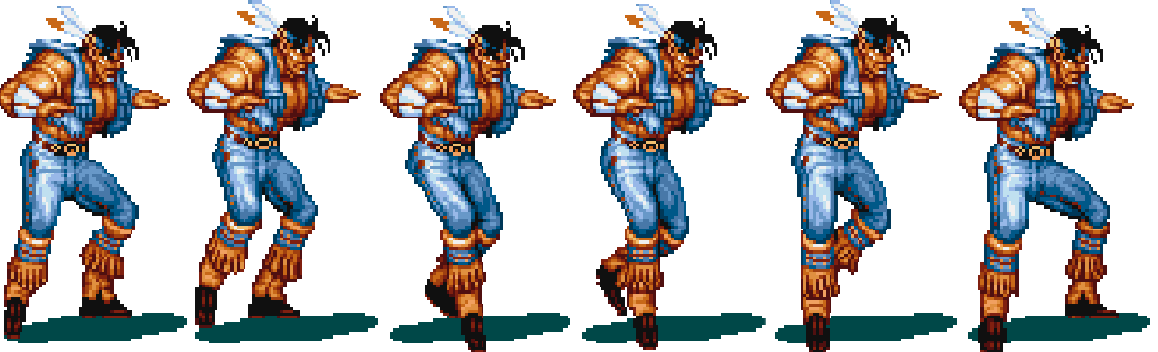
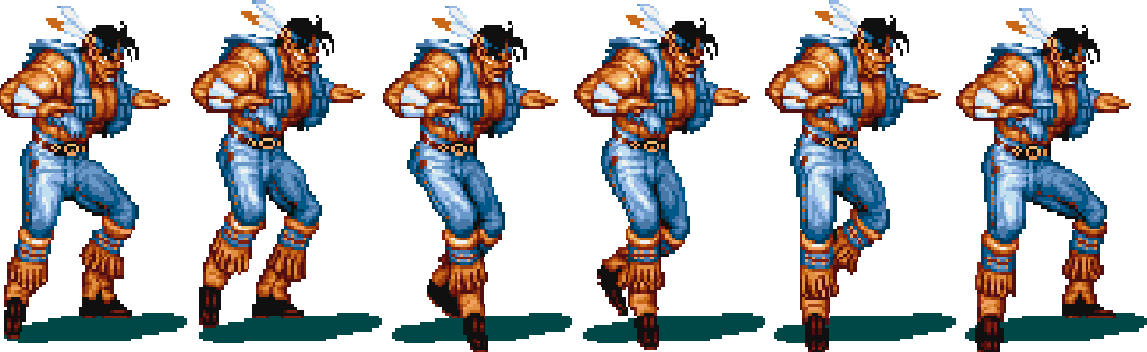
16 sprites better than 4 and cubes

diff --git a/JeuDeCombats/src/personnages/InformationsCharacter.java b/JeuDeCombats/src/personnages/InformationsCharacter.java
@@ -3,62 +3,62 @@ package personnages;
 public abstract class InformationsCharacter {
 
 	private static int life[]={60,80,80,60,60,40,100,40,100,100,60,40,60,40,80,60};
-	private static int speed[]={8,4,8,6,8,8,2,2,4,4,8,10,6,10,6,8};
+	private static int speed[]={8,4,8,6,8,8,4,4,4,4,8,10,6,10,6,8};
 	private static int damage[]={8,10,6,8,6,4,10,6,8,8,8,6,8,6,10,10};
 	
-	private static int widthSpritePersoIdle[]={182,299,234,205,0,207};
-	private static int heightSpritePersoIdle[]={345,366,321,349,0,350};
-	private static int nbSpritePersoIdle[]={4,4,4,3,0,4};
+	private static int widthSpritePersoIdle[]={182,299,234,205,188,206,245,218,194,211,195,198,169,205,176,273};
+	private static int heightSpritePersoIdle[]={345,366,321,349,360,353,357,345,350,338,363,355,348,343,357,365};
+	private static int nbSpritePersoIdle[]={4,4,4,3,4,4,3,4,4,3,4,5,4,3,4,3};
 	
-	private static int widthSpritePersoWalking[]={182,326,233,200,0,230};
-	private static int heightSpritePersoWalking[]={345,353,262,358,0,360};
-	private static int nbSpritePersoWalking[]={5,4,8,5,0,8};
+	private static int widthSpritePersoWalking[]={182,326,233,200,209,229,246,209,191,171,228,192,170,204,175,273};
+	private static int heightSpritePersoWalking[]={345,353,262,358,360,358,362,356,352,373,366,370,348,353,367,389};
+	private static int nbSpritePersoWalking[]={5,4,8,5,5,8,4,8,6,5,5,6,4,4,6,4};
 	
-	private static int widthSpritePersoJump[]={182,277,216,187,0,205};
-	private static int heightSpritePersoJump[]={380,357,383,400,0,428};
-	private static int nbSpritePersoJump[]={4,4,4,6,0,4};
+	private static int widthSpritePersoJump[]={182,277,216,187,144,156,269,138,191,154,159,146,160,159,131,264};
+	private static int heightSpritePersoJump[]={380,357,383,400,394,425,400,407,371,385,429,442,338,361,388,357};
+	private static int nbSpritePersoJump[]={4,4,4,6,5,3,3,3,4,5,5,5,5,4,4,4};
 	
-	private static int widthSpritePersoCrouch[]={182,277,217,187,0,205};
-	private static int heightSpritePersoCrouch[]={228,272,233,251,0,266};
-	private static int nbSpritePersoCrouch[]={1,1,2,1,0,1};
+	private static int widthSpritePersoCrouch[]={182,277,217,187,200,206,211,178,212,197,186,190,161,204,185,274};
+	private static int heightSpritePersoCrouch[]={228,272,233,251,246,268,257,229,269,268,236,213,243,195,196,239};
+	private static int nbSpritePersoCrouch[]={1,1,2,1,1,1,1,1,1,1,1,1,1,1,1,1};
 	
-	private static int widthSpritePersoBlocking[]={182,295,210,217,0,219};
-	private static int heightSpritePersoBlocking[]={350,411,304,308,0,340};
-	private static int nbSpritePersoBlocking[]={1,1,1,1,0,2};
+	private static int widthSpritePersoBlocking[]={182,295,210,217,188,219,200,199,190,205,181,200,207,205,188,261};
+	private static int heightSpritePersoBlocking[]={350,411,304,308,364,340,346,345,349,312,349,344,356,350,364,349};
+	private static int nbSpritePersoBlocking[]={1,1,1,1,1,1,1,1,1,1,1,1,1,1,1,1};
 	
-	private static int widthSpritePersoPunch[]={241,379,319,285,0,384};
-	private static int heightSpritePersoPunch[]={341,353,317,348,0,340};
-	private static int nbSpritePersoPunch[]={3,3,2,3,0,3};
+	private static int widthSpritePersoPunch[]={241,379,319,285,249,273,289,359,275,263,295,297,275,325,297,299};
+	private static int heightSpritePersoPunch[]={341,353,317,348,396,389,392,308,361,325,343,379,347,333,334,340};
+	private static int nbSpritePersoPunch[]={3,3,2,3,3,3,3,3,3,3,3,3,3,3,3,3};
 	
-	private static int widthSpritePersoKick[]={283,402,325,340,0,366};
-	private static int heightSpritePersoKick[]={367,361,300,357,0,388};
-	private static int nbSpritePersoKick[]={3,3,3,3,0,5};
+	private static int widthSpritePersoKick[]={283,402,325,340,294,309,324,352,268,322,292,255,274,325,326,269};
+	private static int heightSpritePersoKick[]={367,361,300,357,374,380,373,388,374,359,365,348,329,360,374,261};
+	private static int nbSpritePersoKick[]={3,3,3,3,3,3,2,3,3,3,3,3,3,3,3,3};
 	
-	private static int widthSpritePersoHit[]={207,299,245,182,0,290};
-	private static int heightSpritePersoHit[]={346,343,318,319,0,306};
-	private static int nbSpritePersoHit[]={4,3,2,1,0,2};
+	private static int widthSpritePersoHit[]={207,299,245,182,214,291,249,193,293,230,212,220,167,212,218,261};
+	private static int heightSpritePersoHit[]={346,343,318,319,355,304,328,352,351,313,337,379,315,294,331,359};
+	private static int nbSpritePersoHit[]={4,3,2,1,4,2,3,3,3,3,3,3,1,3,3,1};
 	
-	private static int widthSpritePersoCrouchHit[]={182,299,227,217,0,237};
-	private static int heightSpritePersoCrouchHit[]={241,295,277,243,0,248};
-	private static int nbSpritePersoCrouchHit[]={1,1,3,1,0,1};
+	private static int widthSpritePersoCrouchHit[]={182,299,227,217,206,237,200,178,293,230,212,186,182,212,218,261};
+	private static int heightSpritePersoCrouchHit[]={241,295,277,243,273,246,317,249,351,313,337,242,248,294,331,359};
+	private static int nbSpritePersoCrouchHit[]={1,1,3,1,1,1,1,1,1,3,3,1,1,3,3,1};
 	
-	private static int widthSpritePersoKo[]={312,388,378,352,0,357};
-	private static int heightSpritePersoKo[]={232,384,266,280,0,283};
-	private static int nbSpritePersoKo[]={3,5,5,3,0,4};
+	private static int widthSpritePersoKo[]={312,388,378,352,329,358,318,328,309,342,370,318,262,279,296,369};
+	private static int heightSpritePersoKo[]={232,384,266,280,333,298,240,186,296,283,271,305,297,340,340,232};
+	private static int nbSpritePersoKo[]={3,5,5,3,4,4,5,2,5,3,3,3,3,3,3,3};
 	
-	private static int widthSpritePersoVictory[]={182,299,240,182,0,203};
-	private static int heightSpritePersoVictory[]={460,536,486,453,0,384};
-	private static int nbSpritePersoVictory[]={2,2,4,5,0,3};
+	private static int widthSpritePersoVictory[]={182,299,240,182,188,220,229,245,208,238,240,199,290,205,158,201};
+	private static int heightSpritePersoVictory[]={460,536,486,453,477,617,528,380,279,410,445,398,402,501,384,415};
+	private static int nbSpritePersoVictory[]={2,2,4,5,2,3,2,2,5,12,10,5,4,2,4,1};
 	
-	private static int widthSpritePersoArm[]={110,103,91,103};
-	private static int heightSpritePersoArm[]={34,98,48,46};
-	private static int posXSpritePersoArm[]={131,276,228,183};
-	private static int posYSpritePersoArm[]={282,286,238,305};
+	private static int widthSpritePersoArm[]={110,103,91,103,99,64,85,120,108,94,100,102,131,140,65,127};
+	private static int heightSpritePersoArm[]={34,98,48,46,40,107,58,55,97,56,67,51,71,41,82,96};
+	private static int posXSpritePersoArm[]={131,276,228,183,162, 180,208,223,177,161,207,200,155,186,249,171};
+	private static int posYSpritePersoArm[]={282,286,238,305,313,389,304,251,248,293,301,318,305,290,300,312};
 	
-	private static int widthSpritePersoFoot[]={46,116,120,158};
-	private static int heightSpritePersoFoot[]={39,103,101,106};
-	private static int posXSpritePersoFoot[]={237,286,205,181};
-	private static int posYSpritePersoFoot[]={359,125,227,230};
+	private static int widthSpritePersoFoot[]={46,116,120,158,40,79,81,93,102,100,137,126,42,154,110,96};
+	private static int heightSpritePersoFoot[]={39,103,101,106,40,46,125,80,87,85,163,91,55,69,130,73};
+	private static int posXSpritePersoFoot[]={237,286,205,181,255,239,268,271,187,232,162,133,228,169,225,186};
+	private static int posYSpritePersoFoot[]={359,125,227,230,374,342,173,333,234,332,238,308,314,272,240,226};
 
 	public static int getLife(int numeroPerso){return InformationsCharacter.life[numeroPerso];}
 	public static int getSpeed(int numeroPerso){return InformationsCharacter.speed[numeroPerso];}

diff --git a/JeuDeCombats/src/IHM/SelectionCharacter.java b/JeuDeCombats/src/IHM/SelectionCharacter.java
@@ -51,9 +51,6 @@ public class SelectionCharacter extends BasicGameState {
 	public void render(GameContainer gc, StateBasedGame window, Graphics g) throws SlickException {
 
 		this.selectionCharacter.draw(0, 0, gc.getWidth(), gc.getHeight());
-		// more character coming soon
-		g.setColor(new Color(0,0,0,200));
-		g.fillRect(346, 210, 675, 255);
 
 		float scaleX =  (gc.getWidth()/256f);
 		float scaleY = (gc.getHeight()/193f);
@@ -157,7 +154,7 @@ public class SelectionCharacter extends BasicGameState {
 				if(this.cursorPlayer2 == 0)
 					this.cursorPlayer2 = 4;
 			}
-/*
+
 			if(key== Input.KEY_DOWN){ 
 				if(this.cursorPlayer2+6<=17)
 					this.cursorPlayer2 +=6;
@@ -181,7 +178,7 @@ public class SelectionCharacter extends BasicGameState {
 				else if(this.cursorPlayer2 == 5)
 					this.cursorPlayer2 = 17;
 			}
-*/
+
 			if(key==Input.KEY_ENTER){
 				this.character2Select = true;
 				int cursor2;
@@ -214,7 +211,7 @@ public class SelectionCharacter extends BasicGameState {
 				if(this.cursorPlayer1 == 0)
 					this.cursorPlayer1 = 4;
 			}
-/*
+
 			if(key == Input.KEY_S){ 
 				if(this.cursorPlayer1+6<=17)
 					this.cursorPlayer1 +=6;
@@ -238,7 +235,7 @@ public class SelectionCharacter extends BasicGameState {
 				else if(this.cursorPlayer1 == 5)
 					this.cursorPlayer1 = 17;
 			}
-*/
+
 			if(key == Input.KEY_E){
 				this.character1Select = true;
 				int cursor1;
